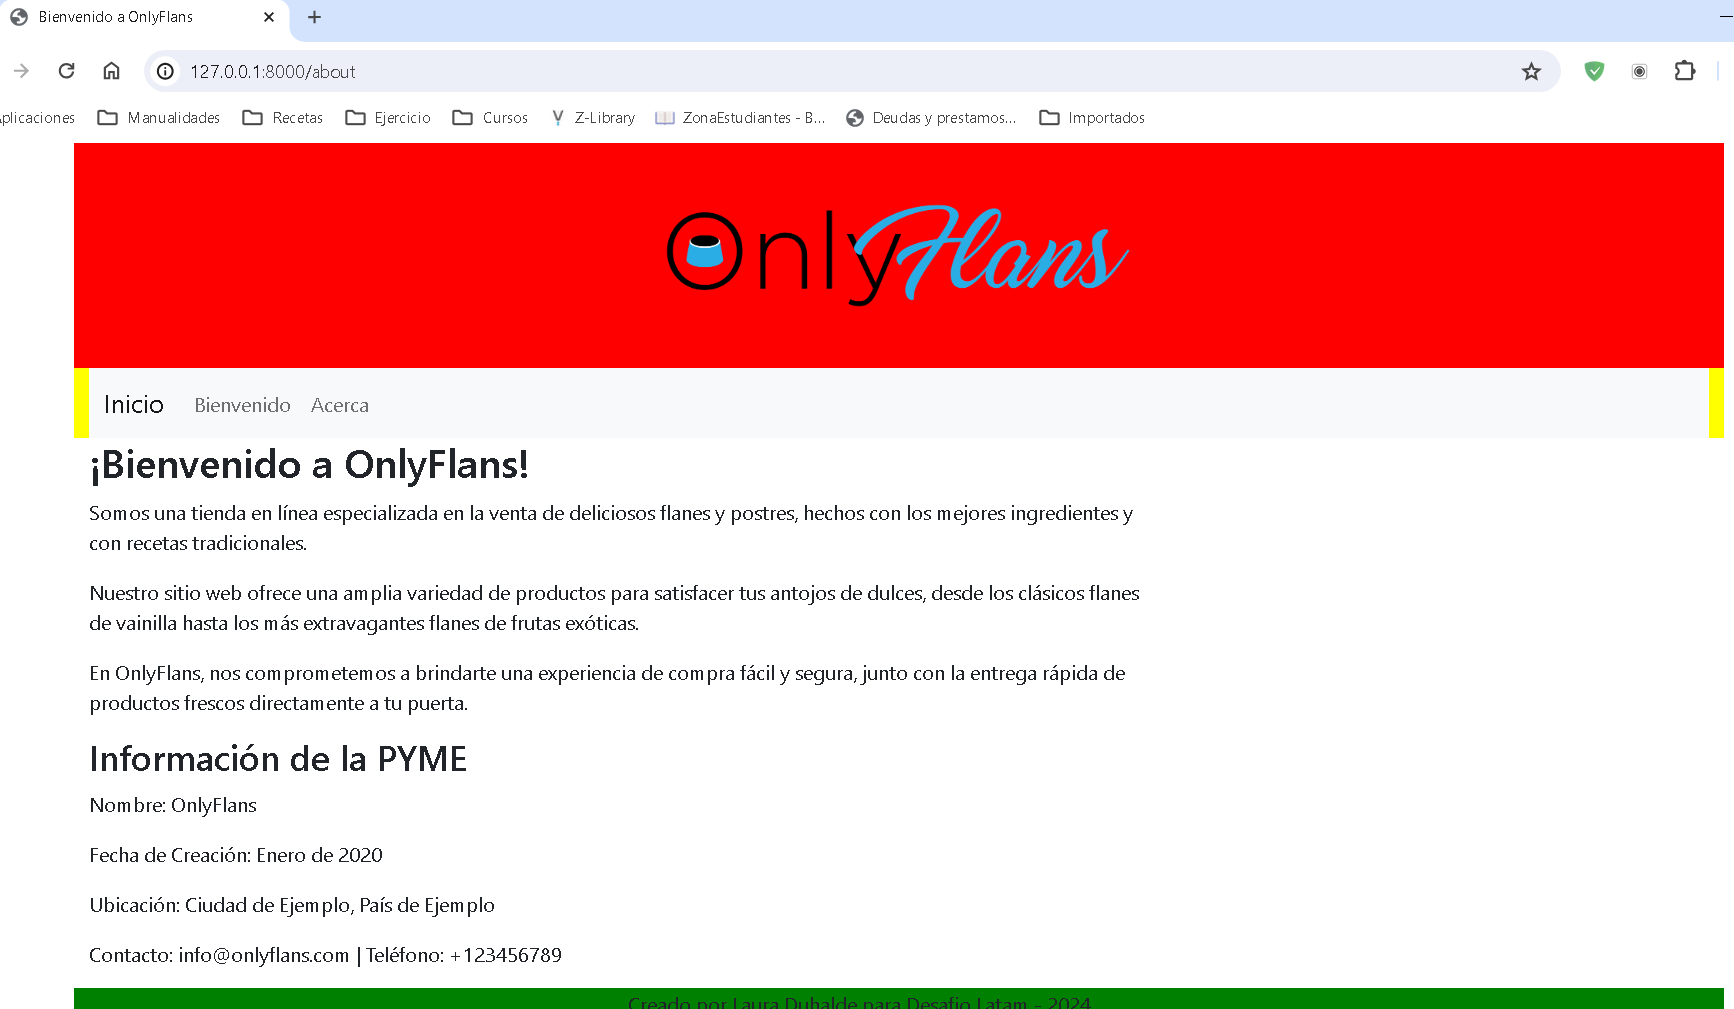
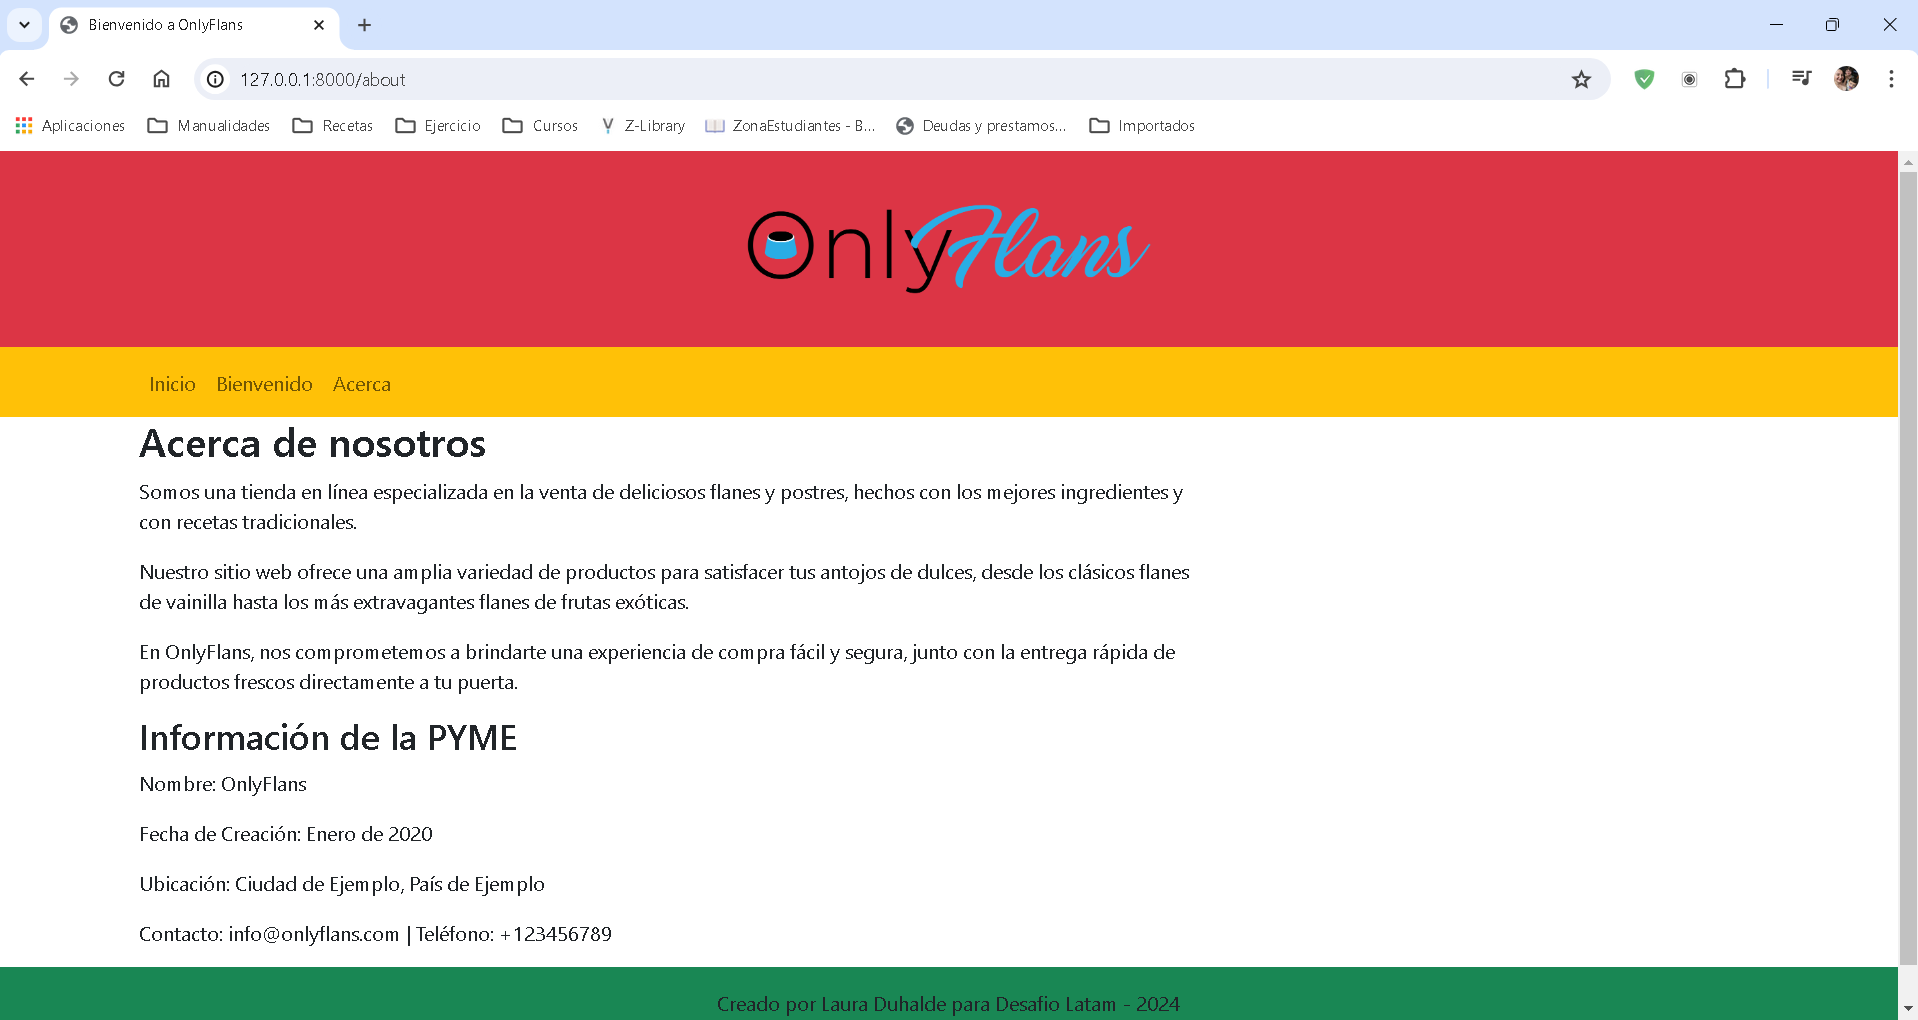
cambios estructura carpetas y apariencia

diff --git a/web/templates/index.html b/web/templates/index.html
@@ -1,67 +1,84 @@
-{% extends 'base.html' %}
-
-{% block content %}
-{% load static %}
+{% extends 'base.html' %} {% block content %} {% load static %}
 <!--Destacados-->
 <section id="destacados" class="container p-5">
-    <div class="text-center" style="border-bottom: solid;">
-        <h1>Productos destacados</h1>
+  <div class="text-center" style="border-bottom: solid">
+    <h1>Productos destacados</h1>
+  </div>
+  <div class="row">
+    <!--Por defecto se muestra solo una columna, en dispositivos con tamaño mayor a 576px se muestran 3 columnas-->
+    <div class="col-12 col-lg-3 py-2">
+      <div class="card bg-secondary">
+        <img
+          src="{% static 'img/flan-vainilla.jpg' %}"
+          class="card-img-top"
+          alt="Flan de vainilla"
+        />
+        <div class="card-body">
+          <h5 class="card-title">Flan de vainilla</h5>
+          <p class="card-text">
+            Lorem, ipsum dolor sit amet consectetur adipisicing elit. Possimus
+            soluta nam praesentium sit quibusdam odio voluptatum ipsam alias
+            illum atque aperiam error, a quasi aut voluptates molestiae,
+            asperiores, quisquam facilis.
+          </p>
+        </div>
+      </div>
     </div>
-    <div class="row">
-        <!--Por defecto se muestra solo una columna, en dispositivos con tamaño mayor a 576px se muestran 3 columnas-->
-        <div class="col-12 col-sm-3 py-2">
-            <div class="card bg-secondary">
-                <img src="{% static 'img/flan-vainilla.jpg' %}" class="card-img-top" alt="Flan de vainilla">
-                <div class="card-body ">
-                    <h5 class="card-title">Flan de vainilla</h5>
-                    <p class="card-text">
-                        Lorem, ipsum dolor sit amet consectetur adipisicing elit. Possimus soluta nam praesentium sit
-                        quibusdam odio voluptatum ipsam alias illum atque aperiam error, a quasi aut voluptates
-                        molestiae, asperiores, quisquam facilis.
-                    </p>
-                </div>
-            </div>
+    <div class="col-12 col-lg-3 py-2">
+      <div class="card bg-secondary">
+        <img
+          src="{% static 'img/flan-chocolate.jpg' %}"
+          class="card-img-top"
+          alt="Flan de chocolate"
+        />
+        <div class="card-body">
+          <h5 class="card-title">Flan de chocolate</h5>
+          <p class="card-text">
+            Lorem, ipsum dolor sit amet consectetur adipisicing elit. Possimus
+            soluta nam praesentium sit quibusdam odio voluptatum ipsam alias
+            illum atque aperiam error, a quasi aut voluptates molestiae,
+            asperiores, quisquam facilis.
+          </p>
         </div>
-        <div class="col-12 col-sm-3 py-2">
-            <div class="card bg-secondary">
-                <img src="{% static 'img/flan-chocolate.jpg' %}" class="card-img-top" alt="Flan de chocolate">
-                <div class="card-body ">
-                    <h5 class="card-title">Flan de chocolate</h5>
-                    <p class="card-text">
-                        Lorem, ipsum dolor sit amet consectetur adipisicing elit. Possimus soluta nam praesentium sit
-                        quibusdam odio voluptatum ipsam alias illum atque aperiam error, a quasi aut voluptates
-                        molestiae, asperiores, quisquam facilis.
-                    </p>
-                </div>
-            </div>
-        </div>
-        <div class="col-12 col-sm-3 py-2">
-            <div class="card bg-secondary">
-                <img src="{% static 'img/flan-frutos-rojos.jpg' %}" class="card-img-top" alt="Flan de frutos rojos">
-                <div class="card-body ">
-                    <h5 class="card-title">Flan de frutos rojos</h5>
-                    <p class="card-text">
-                        Lorem, ipsum dolor sit amet consectetur adipisicing elit. Possimus soluta nam praesentium sit
-                        quibusdam odio voluptatum ipsam alias illum atque aperiam error, a quasi aut voluptates
-                        molestiae, asperiores, quisquam facilis.
-                    </p>
-                </div>
-            </div>
-        </div>
-        <div class="col-12 col-sm-3 py-2">
-            <div class="card bg-secondary">
-                <img src="{% static 'img/flan-coco.jpg' %}" class="card-img-top" alt="Flan de coco">
-                <div class="card-body ">
-                    <h5 class="card-title">Flan de coco</h5>
-                    <p class="card-text">
-                        Lorem, ipsum dolor sit amet consectetur adipisicing elit. Possimus soluta nam praesentium sit
-                        quibusdam odio voluptatum ipsam alias illum atque aperiam error, a quasi aut voluptates
-                        molestiae, asperiores, quisquam facilis.
-                    </p>
-                </div>
-            </div>
-        </div>
+      </div>
     </div>
+    <div class="col-12 col-lg-3 py-2">
+      <div class="card bg-secondary">
+        <img
+          src="{% static 'img/flan-frutos-rojos.jpg' %}"
+          class="card-img-top"
+          alt="Flan de frutos rojos"
+        />
+        <div class="card-body">
+          <h5 class="card-title">Flan de frutos rojos</h5>
+          <p class="card-text">
+            Lorem, ipsum dolor sit amet consectetur adipisicing elit. Possimus
+            soluta nam praesentium sit quibusdam odio voluptatum ipsam alias
+            illum atque aperiam error, a quasi aut voluptates molestiae,
+            asperiores, quisquam facilis.
+          </p>
+        </div>
+      </div>
+    </div>
+    <div class="col-12 col-lg-3 py-2">
+      <div class="card bg-secondary">
+        <img
+          src="{% static 'img/flan-coco.jpg' %}"
+          class="card-img-top"
+          alt="Flan de coco"
+        />
+        <div class="card-body">
+          <h5 class="card-title">Flan de coco</h5>
+          <p class="card-text">
+            Lorem, ipsum dolor sit amet consectetur adipisicing elit. Possimus
+            soluta nam praesentium sit quibusdam odio voluptatum ipsam alias
+            illum atque aperiam error, a quasi aut voluptates molestiae,
+            asperiores, quisquam facilis.
+          </p>
+        </div>
+      </div>
+    </div>
+  </div>
 </section>
 
 {% endblock %}

diff --git a/web/templates/base.html b/web/templates/base.html
@@ -1,50 +1,44 @@
-<!doctype html>
+<!DOCTYPE html>
 <html lang="es">
+  <head>
+    <!-- Required meta tags -->
+    <meta charset="utf-8" />
+    <meta name="viewport" content="width=device-width, initial-scale=1" />
 
-<head>
-  <!-- Required meta tags -->
-  <meta charset="utf-8">
-  <meta name="viewport" content="width=device-width, initial-scale=1">
+    <!-- Bootstrap CSS -->
+    <link
+      href="https://cdn.jsdelivr.net/npm/bootstrap@5.0.2/dist/css/bootstrap.min.css"
+      rel="stylesheet"
+      integrity="sha384-EVSTQN3/azprG1Anm3QDgpJLIm9Nao0Yz1ztcQTwFspd3yD65VohhpuuCOmLASjC"
+      crossorigin="anonymous"
+    />
 
-  <!-- Bootstrap CSS -->
-  <link href="https://cdn.jsdelivr.net/npm/bootstrap@5.0.2/dist/css/bootstrap.min.css" rel="stylesheet"
-    integrity="sha384-EVSTQN3/azprG1Anm3QDgpJLIm9Nao0Yz1ztcQTwFspd3yD65VohhpuuCOmLASjC" crossorigin="anonymous">
+    <title>{% block 'tittle' %}Bienvenido a OnlyFlans{% endblock %}</title>
+    <!--para cambiar titulo en cada página-->
+  </head>
 
-  <title>{% block 'tittle' %}Bienvenido a OnlyFlans{% endblock %}</title> <!--para cambiar titulo en cada página-->
-</head>
+  <body>
+    {% block 'header' %} {% include 'includes/header.html' %} {% endblock %} {%
+    block 'navbar' %} {% include 'includes/navbar.html' %} {% endblock %}
 
-<body>
-  {% block 'header' %}
-  {% include 'header.html' %}
-  {% endblock %}
+    <!-- Contenido -->
+    <div class="container">{% block content %} {% endblock %}</div>
 
-  {% block 'navbar' %}
-  {% include 'navbar.html' %}
-  {% endblock %}
+    {% block 'footer' %} {% include 'includes/footer.html' %} {% endblock %}
 
-  <!-- Contenido -->
-  <div class="container">
-    {% block content %}
-    {% endblock %}
-  </div>
+    <!-- Optional JavaScript; choose one of the two! -->
 
-  {% block 'footer' %}
-  {% include 'footer.html' %}
-  {% endblock %}
+    <!-- Option 1: Bootstrap Bundle with Popper -->
+    <script
+      src="https://cdn.jsdelivr.net/npm/bootstrap@5.0.2/dist/js/bootstrap.bundle.min.js"
+      integrity="sha384-MrcW6ZMFYlzcLA8Nl+NtUVF0sA7MsXsP1UyJoMp4YLEuNSfAP+JcXn/tWtIaxVXM"
+      crossorigin="anonymous"
+    ></script>
 
-
-  <!-- Optional JavaScript; choose one of the two! -->
-
-  <!-- Option 1: Bootstrap Bundle with Popper -->
-  <script src="https://cdn.jsdelivr.net/npm/bootstrap@5.0.2/dist/js/bootstrap.bundle.min.js"
-    integrity="sha384-MrcW6ZMFYlzcLA8Nl+NtUVF0sA7MsXsP1UyJoMp4YLEuNSfAP+JcXn/tWtIaxVXM"
-    crossorigin="anonymous"></script>
-
-  <!-- Option 2: Separate Popper and Bootstrap JS -->
-  <!--
+    <!-- Option 2: Separate Popper and Bootstrap JS -->
+    <!--
     <script src="https://cdn.jsdelivr.net/npm/@popperjs/core@2.9.2/dist/umd/popper.min.js" integrity="sha384-IQsoLXl5PILFhosVNubq5LC7Qb9DXgDA9i+tQ8Zj3iwWAwPtgFTxbJ8NT4GN1R8p" crossorigin="anonymous"></script>
     <script src="https://cdn.jsdelivr.net/npm/bootstrap@5.0.2/dist/js/bootstrap.min.js" integrity="sha384-cVKIPhGWiC2Al4u+LWgxfKTRIcfu0JTxR+EQDz/bgldoEyl4H0zUF0QKbrJ0EcQF" crossorigin="anonymous"></script>
     -->
-</body>
-
+  </body>
 </html>

diff --git a/web/templates/about.html b/web/templates/about.html
@@ -1,20 +1,26 @@
-{% extends 'base.html' %}
-<!-- {% block 'tittle' %}Acerca{% endblock %} para cambiar titulo-->
-{% block content %}
+{% extends 'base.html' %} {% block content %}
 <div class="row">
-    <div class="col-md-8">
-        <h2>¡Bienvenido a OnlyFlans!</h2>
-        <p>Somos una tienda en línea especializada en la venta de deliciosos flanes y postres, hechos con los mejores
-            ingredientes y con recetas tradicionales.</p>
-        <p>Nuestro sitio web ofrece una amplia variedad de productos para satisfacer tus antojos de dulces, desde los
-            clásicos flanes de vainilla hasta los más extravagantes flanes de frutas exóticas.</p>
-        <p>En OnlyFlans, nos comprometemos a brindarte una experiencia de compra fácil y segura, junto con la entrega
-            rápida de productos frescos directamente a tu puerta.</p>
-        <h3>Información de la PYME</h3>
-        <p>Nombre: OnlyFlans</p>
-        <p>Fecha de Creación: Enero de 2020</p>
-        <p>Ubicación: Ciudad de Ejemplo, País de Ejemplo</p>
-        <p>Contacto: info@onlyflans.com | Teléfono: +123456789</p>
-    </div>
+  <div class="col-md-8">
+    <h2>Acerca de nosotros</h2>
+    <p>
+      Somos una tienda en línea especializada en la venta de deliciosos flanes y
+      postres, hechos con los mejores ingredientes y con recetas tradicionales.
+    </p>
+    <p>
+      Nuestro sitio web ofrece una amplia variedad de productos para satisfacer
+      tus antojos de dulces, desde los clásicos flanes de vainilla hasta los más
+      extravagantes flanes de frutas exóticas.
+    </p>
+    <p>
+      En OnlyFlans, nos comprometemos a brindarte una experiencia de compra
+      fácil y segura, junto con la entrega rápida de productos frescos
+      directamente a tu puerta.
+    </p>
+    <h3>Información de la PYME</h3>
+    <p>Nombre: OnlyFlans</p>
+    <p>Fecha de Creación: Enero de 2020</p>
+    <p>Ubicación: Ciudad de Ejemplo, País de Ejemplo</p>
+    <p>Contacto: info@onlyflans.com | Teléfono: +123456789</p>
+  </div>
 </div>
 {% endblock %}

diff --git a/web/templates/includes/navbar.html b/web/templates/includes/navbar.html
@@ -1,0 +1,21 @@
+<nav class="navbar navbar-expand-lg navbar-light bg-warning">
+    <div class="container">
+        <button class="navbar-toggler" type="button" data-bs-toggle="collapse" data-bs-target="#navbarNav"
+            aria-controls="navbarNav" aria-expanded="false" aria-label="Toggle navigation">
+            <span class="navbar-toggler-icon"></span>
+        </button>
+        <div class="collapse navbar-collapse" id="navbarNav">
+            <ul class="navbar-nav">
+                <li class="nav-item">
+                    <a class="nav-link" href={% url "index"%}>Inicio</a>
+                </li>
+                <li class="nav-item">
+                    <a class="nav-link" href={% url "welcome"%}>Bienvenido</a>
+                </li>
+                <li class="nav-item">
+                    <a class="nav-link" href={% url "about"%}>Acerca</a>
+                </li>
+            </ul>
+        </div>
+    </div>
+</nav>

diff --git a/web/templates/welcome.html b/web/templates/welcome.html
@@ -1,5 +1,15 @@
-{% extends 'base.html' %}
-
-{% block content %}
-<h1>Bienvenido cliente</h1>
+{% extends 'base.html' %} {% block content %}
+<div class="container">
+  <h1>Bienvenido a OnlyFlans</h1>
+  <p>¡Gracias por visitar nuestra página web!</p>
+  <p>
+    Somos una pyme especializada en la venta de deliciosos pasteles y postres.
+    Nuestro objetivo es ofrecerte los mejores productos de repostería para que
+    disfrutes de momentos dulces e inolvidables.
+  </p>
+  <p>
+    No dudes en explorar nuestra tienda en línea para descubrir una amplia
+    variedad de opciones irresistibles.
+  </p>
+</div>
 {% endblock %}

diff --git a/web/templates/includes/header.html b/web/templates/includes/header.html
@@ -1,0 +1,9 @@
+{% load static %}
+
+<div class="container-fluid bg-danger">
+    <div class="row">
+        <div class="col-md-4 mx-auto" style="max-width: 400px;">
+            <img src="{% static 'img/OnlyFlans.png' %}" alt="logo" class="img-fluid">
+        </div>
+    </div>
+</div>

diff --git a/web/templates/includes/footer.html b/web/templates/includes/footer.html
@@ -1,0 +1,6 @@
+<footer class="footer mt-auto py-3 text-center bg-success">
+    <div class="container">
+        <p>Creado por Laura Duhalde para Desafio Latam - 2024</p>
+    </div>
+</footer>
+
